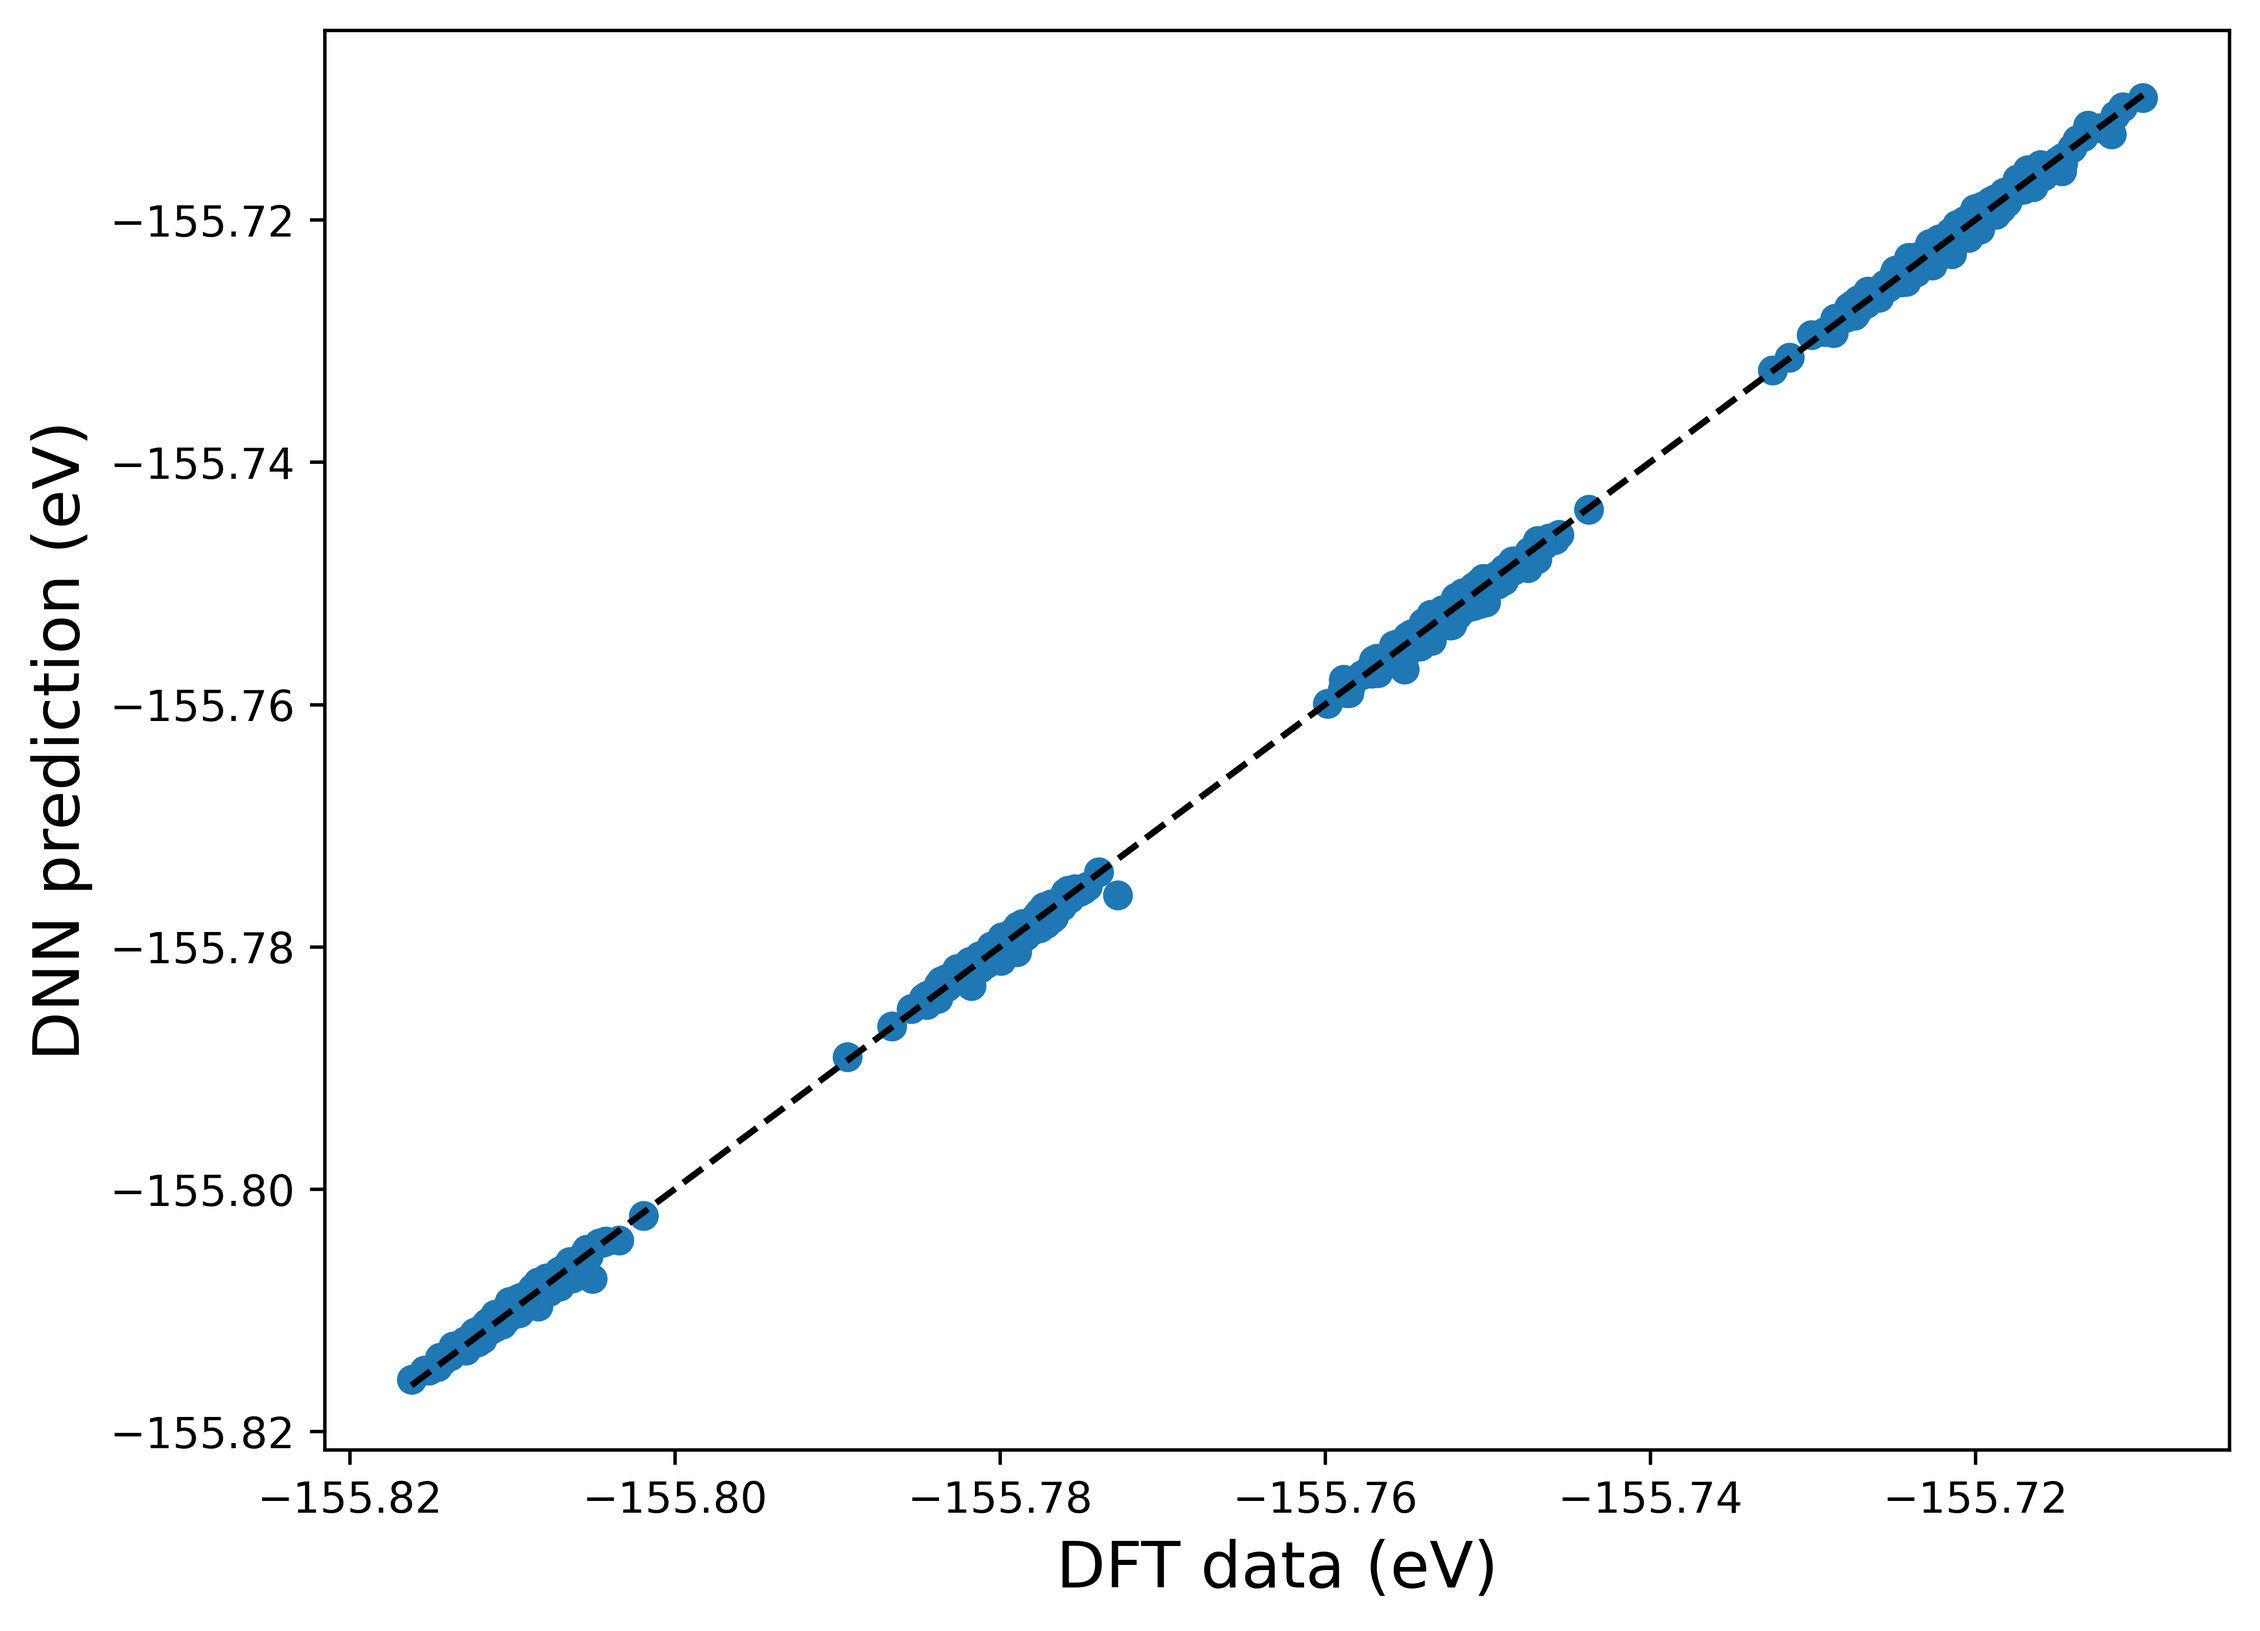
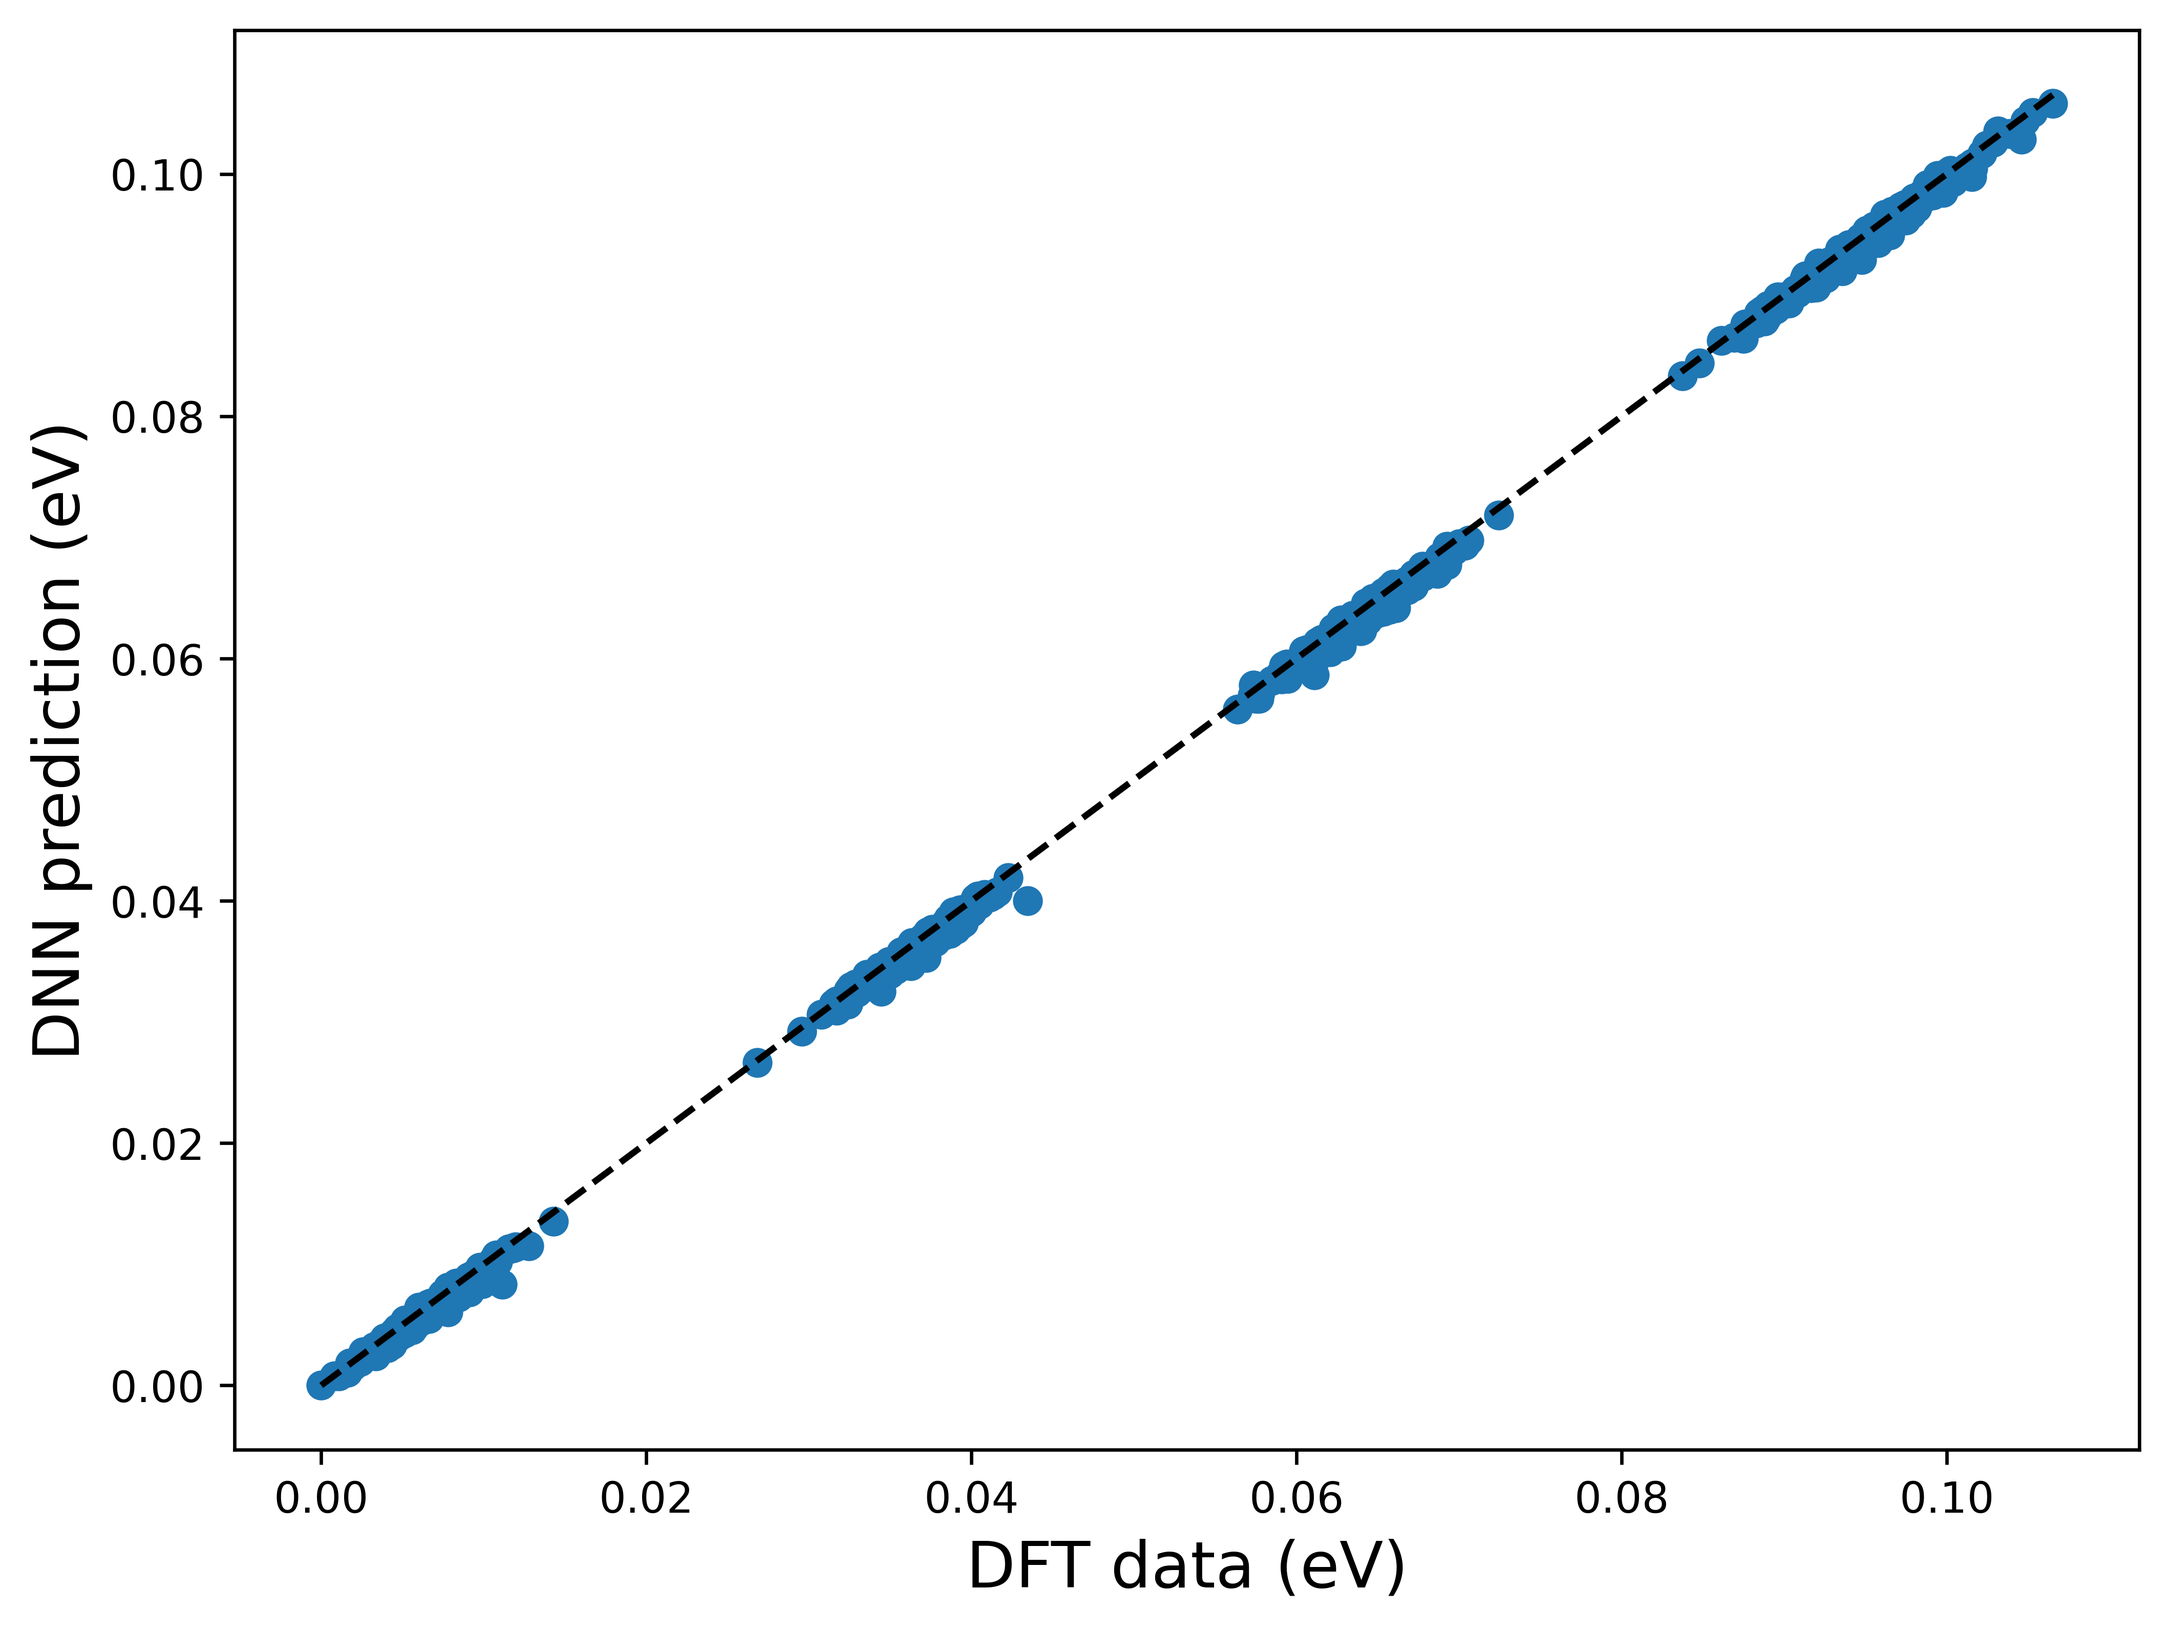
shift total energy in testing perf

diff --git a/rnd.tex b/rnd.tex
@@ -188,7 +188,7 @@ of atoms and force, respectively, for bulk+interface NNP than bulk NNP.
 \end{table}
 
 Alternatively, one can check the correlation between the deep NN prediction
-with the DFT data. Figure~\ref{fig:corr_E} shows the total energy points whose
+with the DFT data. Figure~\ref{fig:corr_E} shows the relative total energy points whose
 coordinates are
 the DFT data
 and the predicted ones given
@@ -217,12 +217,11 @@ in Figure~\ref{fig:corr_F}.
 		\caption{Bulk+Interface trained NNP}
 		\label{fig:corr_bulk+interface_NN_E}
 	\end{subfigure}
-	\caption{Total energy correlation between deep NN prediction data with
+	\caption{Relative total energy correlation between deep NN prediction data with
 		the DFT data
 		for a
 		(a) bulk trained NNP model and (b) bulk+interface trained NNP
-		model. The
-		diagonal line shows the perfect agreement between the two
+		model. The relative total energy was shifted to the lowest energy of each corresponding data. The diagonal line shows the perfect agreement between the two
 		data.}
 	\label{fig:corr_E}
 \end{figure}
